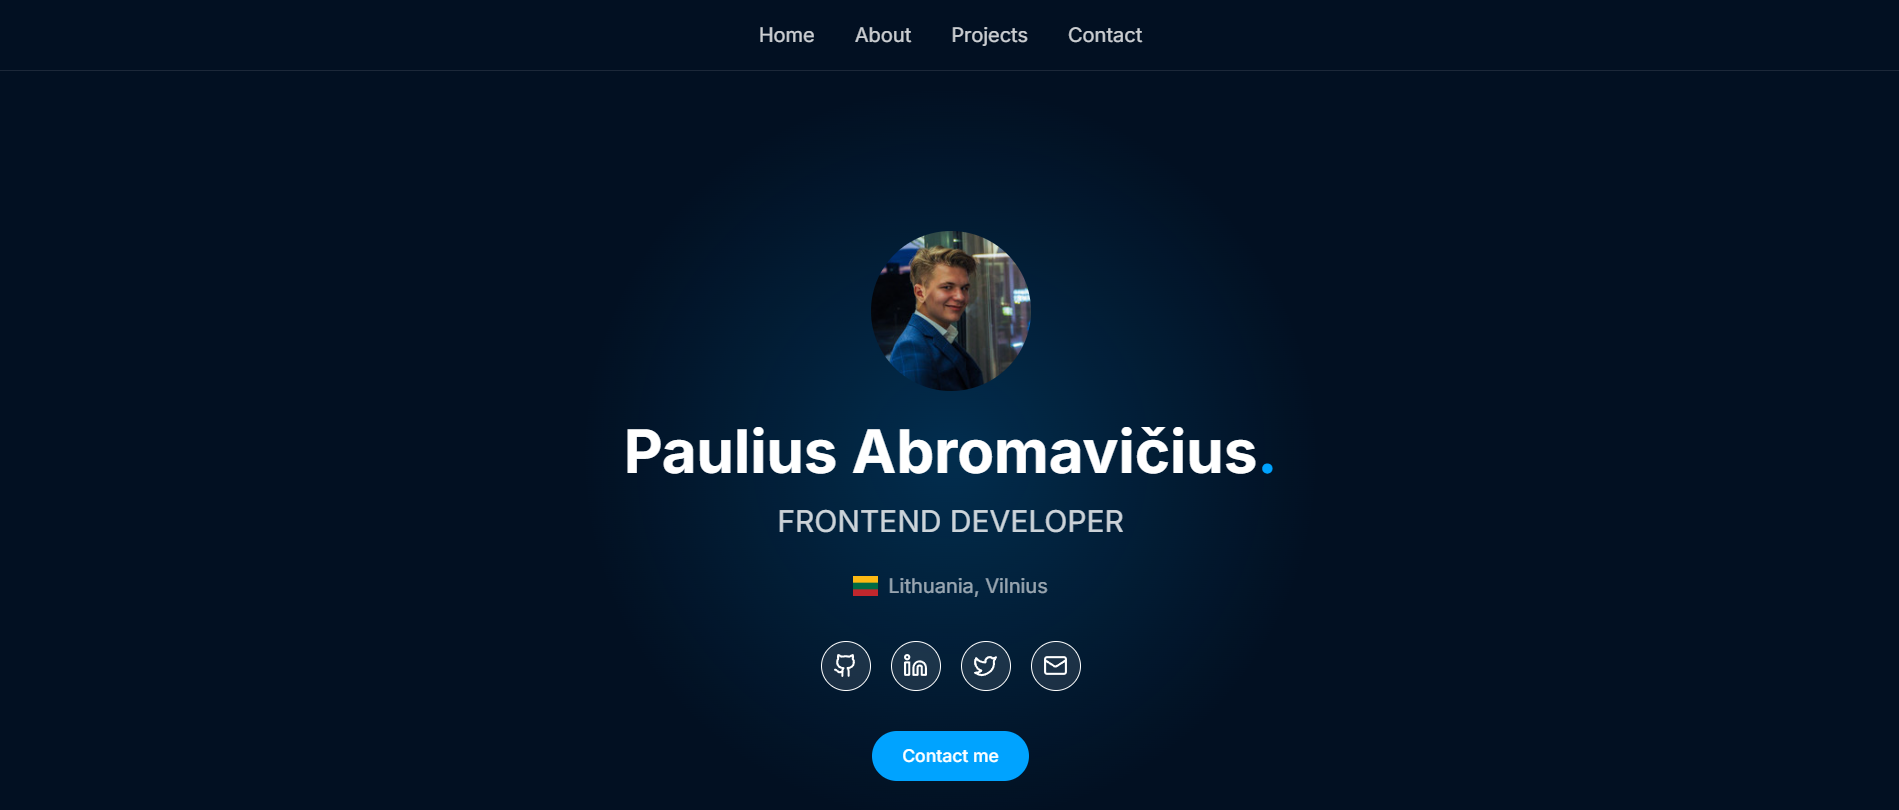
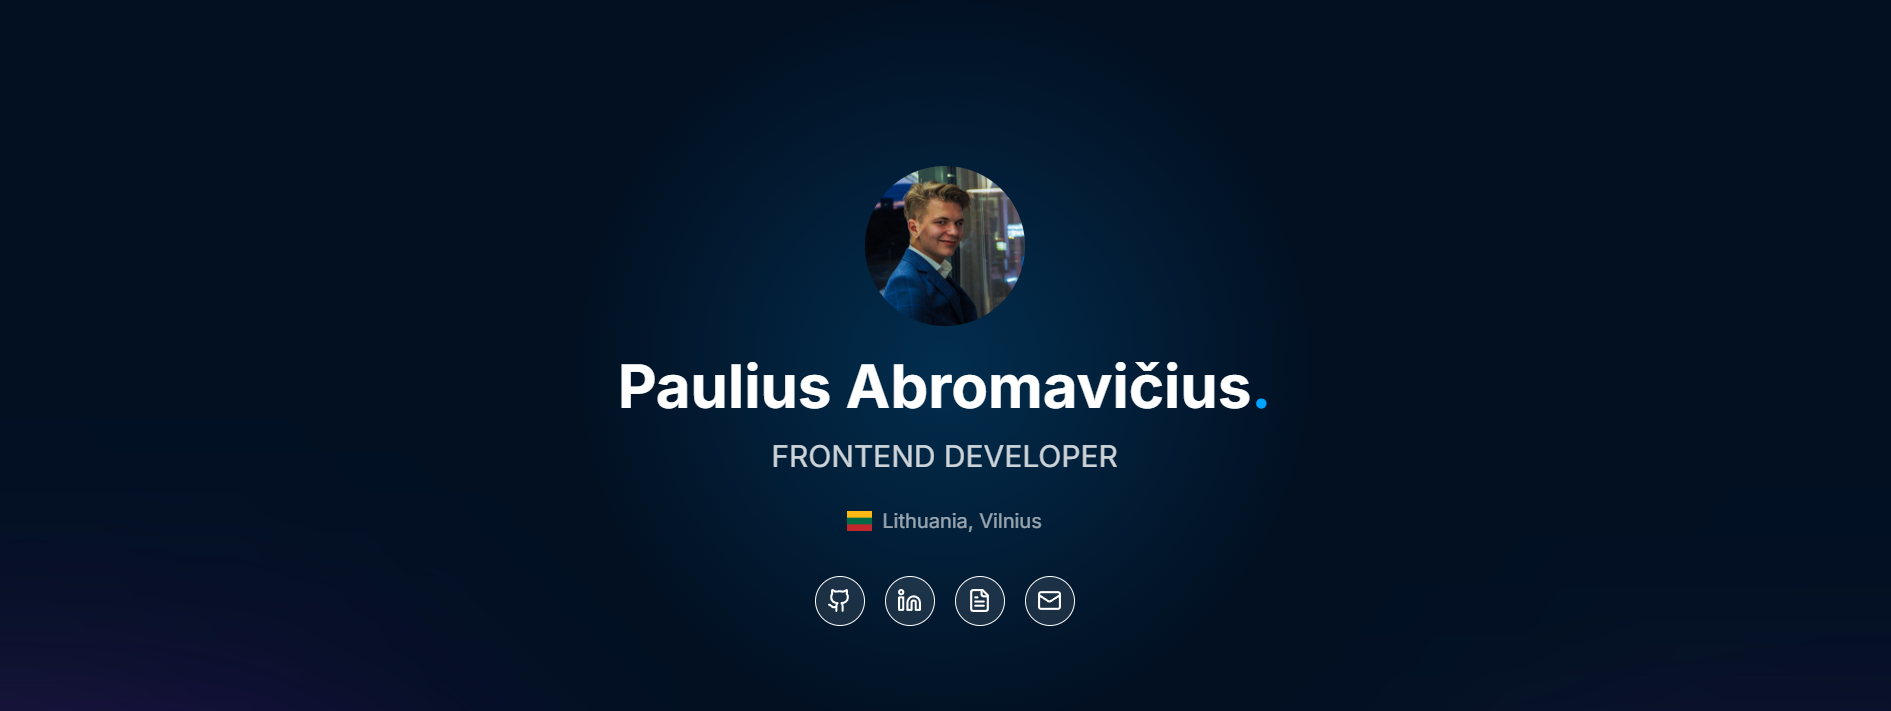
Finished

diff --git a/src/pages/Projects.tsx b/src/pages/Projects.tsx
@@ -1,0 +1,138 @@
+// src/pages/Projects.tsx
+import React from 'react';
+import Navigation from "@/components/Navigation";
+import portfolio from "../Images/portfolio.png";
+import emojiblyLandingPage from "../Images/emojiblyLandingPage.png";
+const projects = [
+    {
+      title: "Emojibly(coming soon)",
+      description: "This website creates an embedded feedback widget that clients can integrate into their websites. The widget allows users to provide feedback on the website's content using emojis.",
+      image: emojiblyLandingPage,
+      link: "https://emojibly.com",
+      tags: ["Node.JS", "Svelte", "Tailwindcss", "TypseScript"]
+    },
+    {
+      title: "Personal Portfolio",
+      description: "This is my personal portfolio, where I showcase my projects and skills.",
+      image: portfolio,
+      link: "https://abromavicius.dev",
+      tags: ["Node.JS", "React", "Tailwindcss"]
+    }
+  ];
+const Projects = () => {
+  return (
+    <div className="relative min-h-screen flex flex-col items-center text-center pt-20 bg-gradient-to-b from-[#021022] to-[#0d1721] text-white overflow-hidden">
+    {/* Background Gradient */}
+    <div
+      className="absolute inset-0 bg-gradient-radial from-[#0d6ad4] to-[#0d1721] opacity-60 blur-[100px]"
+    ></div>
+
+    {/* Radiant Gradients Around Text */}
+    <div className="absolute top-10 left-1/4 w-[300px] h-[300px] rounded-full opacity-50 blur-[150px]" 
+      style={{
+        background: `linear-gradient(217deg, #00b4d8, rgba(0, 180, 216, 0) 70.71%), 
+                     linear-gradient(127deg, #00b4d8, rgba(0, 180, 216, 0) 70.71%), 
+                     linear-gradient(336deg, #00b4d8, rgba(0, 180, 216, 0) 70.71%)`
+      }}
+    ></div>
+    <div className="absolute top-10 left-1/2 transform -translate-x-1/2 w-[400px] h-[400px] rounded-full opacity-50 blur-[150px]"
+      style={{
+        background: `linear-gradient(217deg, #00d49f, rgba(0, 255, 128, 0) 70.71%), 
+                     linear-gradient(127deg, #00d49f, rgba(0, 255, 128, 0) 70.71%), 
+                     linear-gradient(336deg, #00d49f, rgba(0, 255, 128, 0) 70.71%)`
+      }}
+    ></div>
+    <div className="absolute top-10 right-1/4 w-[300px] h-[300px] rounded-full opacity-50 blur-[150px]"
+      style={{
+        background: `linear-gradient(217deg, #00b4d8, rgba(0, 180, 216, 0) 70.71%), 
+                     linear-gradient(127deg, #00b4d8, rgba(0, 180, 216, 0) 70.71%), 
+                     linear-gradient(336deg, #00b4d8, rgba(0, 180, 216, 0) 70.71%)`
+      }}
+    ></div>
+    <div className="absolute bottom-10 right-10 w-[300px] h-[300px] rounded-full opacity-50 blur-[150px]"
+      style={{
+        background: `linear-gradient(217deg, #9b4dca, rgba(155, 77, 202, 0) 70.71%), 
+                     linear-gradient(127deg, #9b4dca, rgba(155, 77, 202, 0) 70.71%), 
+                     linear-gradient(336deg, #9b4dca, rgba(155, 77, 202, 0) 70.71%)`
+      }}
+    ></div>
+    
+    <div className="absolute bottom-10 left-10 w-[300px] h-[300px] rounded-full opacity-50 blur-[150px]"
+      style={{
+        background: `linear-gradient(217deg, #ff4b8b, rgba(255, 75, 139, 0) 70.71%), 
+        linear-gradient(127deg, #ff4b8b, rgba(255, 75, 139, 0) 70.71%), 
+        linear-gradient(336deg, #ff4b8b, rgba(255, 75, 139, 0) 70.71%)`
+      }}
+    ></div>
+    
+
+    <div className="relative z-10 max-w-xl px-4">
+      <h1 className="text-6xl font-bold mb-6 bg-clip-text text-transparent bg-gradient-to-r from-[#07d400] to-[#00b4d8]">Projects</h1>
+      <p className="text-lg">
+      Explore a list of projects showcasing various skills and technologies.      </p>
+    </div>
+    <section className=" pt-20 pb-20">
+      <div className="container mx-auto px-4">
+        
+       
+        <div className="grid grid-cols-1 md:grid-cols-2 gap-8">
+          {projects.map((project, index) => (
+            <div
+              key={index}
+              className="card-gradient rounded-xl overflow-hidden animate-fade-in group"
+              style={{ animationDelay: `${index * 200}ms` }}
+            >
+              <div className="relative">
+                <img
+                  src={project.image}
+                  alt={project.title}
+                  className="w-full h-64 object-cover"
+                />
+              </div>
+              <div className="p-8">
+                <div className="flex justify-between items-start mb-4">
+                  <h3 className="text-2xl font-semibold text-white">{project.title}</h3>
+                  <a
+                    href={project.link}
+                    className="inline-flex items-center gap-2 text-white/80 hover:text-white transition-colors px-4 py-2 rounded-full border border-white/20 hover:border-white/40"
+                  >
+                    Discover
+                    <svg
+                      className="w-4 h-4"
+                      fill="none"
+                      stroke="currentColor"
+                      viewBox="0 0 24 24"
+                    >
+                      <path
+                        strokeLinecap="round"
+                        strokeLinejoin="round"
+                        strokeWidth={2}
+                        d="M9 5l7 7-7 7"
+                      />
+                    </svg>
+                  </a>
+                </div>
+                <p className="text-gray-400 mb-6">{project.description}</p>
+                <div className="flex flex-wrap gap-2">
+                  {project.tags.map((tag, tagIndex) => (
+                    <span
+                      key={tagIndex}
+                      className="px-3 py-1 rounded-full bg-white/5 text-white/60 text-sm border border-white/10"
+                    >
+                      {tag}
+                    </span>
+                  ))}
+                </div>
+              </div>
+            </div>
+          ))}
+        </div>
+      </div>
+    </section>
+    <Navigation />
+
+  </div>
+  );
+};
+
+export default Projects;

diff --git a/src/pages/About.tsx b/src/pages/About.tsx
@@ -1,0 +1,96 @@
+import React from 'react';
+import Navigation from "@/components/Navigation";
+
+const technologies = [
+  { name: "JavaScript", icon: "https://cdn.jsdelivr.net/gh/devicons/devicon/icons/javascript/javascript-original.svg" },
+  { name: "TypeScript", icon: "https://cdn.jsdelivr.net/gh/devicons/devicon/icons/typescript/typescript-original.svg" },
+  { name: "React", icon: "https://cdn.jsdelivr.net/gh/devicons/devicon/icons/react/react-original.svg" },
+  { name: "Svelte" , icon: "https://cdn.jsdelivr.net/gh/devicons/devicon/icons/svelte/svelte-original.svg" },
+  { name: "Tailwind CSS", icon: "https://cdn.jsdelivr.net/gh/devicons/devicon/icons/tailwindcss/tailwindcss-original.svg" },
+  { name: "Node.js", icon: "https://cdn.jsdelivr.net/gh/devicons/devicon/icons/nodejs/nodejs-original.svg" },
+  { name: "Github", icon: "https://cdn.jsdelivr.net/gh/devicons/devicon/icons/github/github-original.svg", style: "filter: invert(1);" },
+  { name: "MySQL", icon: "https://cdn.jsdelivr.net/gh/devicons/devicon/icons/mysql/mysql-original.svg" },
+];
+const About = () => {
+  return (
+    <div className="relative min-h-screen flex flex-col items-center text-center pt-20 bg-gradient-to-b from-[#021022] to-[#0d1721] text-white overflow-hidden">
+      {/* Background Gradient */}
+      <div
+        className="absolute inset-0 bg-gradient-radial from-[#0d6ad4] to-[#0d1721] opacity-60 blur-[100px]"
+      ></div>
+
+      {/* Radiant Gradients Around Text */}
+      <div className="absolute top-10 left-1/4 w-[300px] h-[300px] rounded-full opacity-50 blur-[150px]" 
+        style={{
+          background: `linear-gradient(217deg, #00b4d8, rgba(0, 180, 216, 0) 70.71%), 
+                       linear-gradient(127deg, #00b4d8, rgba(0, 180, 216, 0) 70.71%), 
+                       linear-gradient(336deg, #00b4d8, rgba(0, 180, 216, 0) 70.71%)`
+        }}
+      ></div>
+      <div className="absolute top-10 left-1/2 transform -translate-x-1/2 w-[400px] h-[400px] rounded-full opacity-50 blur-[150px]"
+        style={{
+          background: `linear-gradient(217deg, #00d49f, rgba(0, 255, 128, 0) 70.71%), 
+                       linear-gradient(127deg, #00d49f, rgba(0, 255, 128, 0) 70.71%), 
+                       linear-gradient(336deg, #00d49f, rgba(0, 255, 128, 0) 70.71%)`
+        }}
+      ></div>
+      <div className="absolute top-10 right-1/4 w-[300px] h-[300px] rounded-full opacity-50 blur-[150px]"
+        style={{
+          background: `linear-gradient(217deg, #00b4d8, rgba(0, 180, 216, 0) 70.71%), 
+                       linear-gradient(127deg, #00b4d8, rgba(0, 180, 216, 0) 70.71%), 
+                       linear-gradient(336deg, #00b4d8, rgba(0, 180, 216, 0) 70.71%)`
+        }}
+      ></div>
+      <div className="absolute bottom-10 right-10 w-[300px] h-[300px] rounded-full opacity-50 blur-[150px]"
+        style={{
+          background: `linear-gradient(217deg, #9b4dca, rgba(155, 77, 202, 0) 70.71%), 
+                       linear-gradient(127deg, #9b4dca, rgba(155, 77, 202, 0) 70.71%), 
+                       linear-gradient(336deg, #9b4dca, rgba(155, 77, 202, 0) 70.71%)`
+        }}
+      ></div>
+      
+      <div className="absolute bottom-10 left-10 w-[300px] h-[300px] rounded-full opacity-50 blur-[150px]"
+        style={{
+          background: `linear-gradient(217deg, #ff4b8b, rgba(255, 75, 139, 0) 70.71%), 
+          linear-gradient(127deg, #ff4b8b, rgba(255, 75, 139, 0) 70.71%), 
+          linear-gradient(336deg, #ff4b8b, rgba(255, 75, 139, 0) 70.71%)`
+        }}
+      ></div>
+      
+
+      <div className="relative z-10 max-w-xl px-4">
+        <h1 className="text-6xl font-bold mb-6 bg-clip-text text-transparent bg-gradient-to-r from-[#07d400] to-[#00b4d8]">Hi, I'm Paulius Abromavičius.</h1>
+        <p className="text-lg">
+          A Fronend developer with experience in web and mobile development. I enjoy working across all stages of a project, from concept to delivery, and I'm always looking for ways to improve both my technical skills and the user experience.
+        </p>
+      </div>
+      <section className='pt-10'>
+      <div className="container mx-auto px-4">
+        <h2 className="text-3xl font-bold mb-12 text-center">Tech Stack</h2>
+        <div className="grid grid-cols-2 sm:grid-cols-4 md:grid-cols-8 gap-8">
+          {technologies.map((tech, index) => (
+            <div
+              key={index}
+              className="flex flex-col items-center animate-fade-in"
+              style={{ animationDelay: `${index * 100}ms` }}
+            >
+              <div className="w-16 h-16 rounded-lg card-gradient p-3 mb-2">
+                <img
+                  src={tech.icon}
+                  alt={tech.name}
+                  className="w-full h-full object-contain"
+                />
+              </div>
+              <span className="text-sm text-white/60">{tech.name}</span>
+            </div>
+          ))}
+        </div>
+      </div>
+    </section>
+      <Navigation />
+
+    </div>
+  );
+};
+
+export default About;

diff --git a/src/App.tsx b/src/App.tsx
@@ -1,19 +1,21 @@
-import { Toaster } from "@/components/ui/toaster";
-import { Toaster as Sonner } from "@/components/ui/sonner";
-import { TooltipProvider } from "@/components/ui/tooltip";
-import { QueryClient, QueryClientProvider } from "@tanstack/react-query";
-import { BrowserRouter, Routes, Route } from "react-router-dom";
-import Index from "./pages/Index";
+// src/App.tsx
+import React from 'react';
+import { BrowserRouter as Router, Routes, Route } from 'react-router-dom';
+import About from './pages/About';
 
-const queryClient = new QueryClient();
+import Projects from './pages/Projects';  // Import the Projects component
+import Index from './pages/Index';
 
-const App = () => (
-  
-      <BrowserRouter>
-        <Routes>
-          <Route path="/" element={<Index />} />
-        </Routes>
-      </BrowserRouter>
-);
+const App = () => {
+  return (
+    <Router>
+      <Routes>
+        <Route path="/" element={<Index />} />
+        <Route path="/about" element={<About />} />
+        <Route path="/projects" element={<Projects />} /> {/* Add route for Projects */}
+      </Routes>
+    </Router>
+  );
+};
 
 export default App;

diff --git a/index.html b/index.html
@@ -3,9 +3,10 @@
   <head>
     <meta charset="UTF-8" />
     <meta name="viewport" content="width=device-width, initial-scale=1.0" />
+    <link rel="icon" type="image/jpeg" href="/PA_logo.jpeg" />
     <title>Paulius Abromavičius</title>
-    <meta name="description" content="Lovable Generated Project" />
-    <meta name="author" content="Lovable" />
+    <meta name="description" content="Paulius portfolio" />
+    <meta name="author" content="Paulius " />
     <meta property="og:image" content="/og-image.svg" />
   </head>
 

diff --git a/src/components/Navigation.tsx b/src/components/Navigation.tsx
@@ -16,9 +16,9 @@ const Navigation = () => {
             <Link to="/projects" className="text-white/80 hover:text-white transition-colors">
               Projects
             </Link>
-            <Link to="/contact" className="text-white/80 hover:text-white transition-colors">
+            <a href="mailto:your-email@example.com" className="text-white/80 hover:text-white transition-colors">
               Contact
-            </Link>
+            </a>
           </div>
         </div>
       </div>

diff --git a/src/pages/Index.tsx b/src/pages/Index.tsx
@@ -3,9 +3,11 @@ import Hero from "@/components/Hero";
 import Experience from "@/components/Experience";
 import Projects from "@/components/Projects";
 import TechStack from "@/components/TechStack";
+import myIcon from "../Images/PA_logo.jpeg";
 
 const Index = () => {
   return (
+    
     <div className="min-h-screen bg-gradient-dark">
       <Navigation />
       <Hero />
